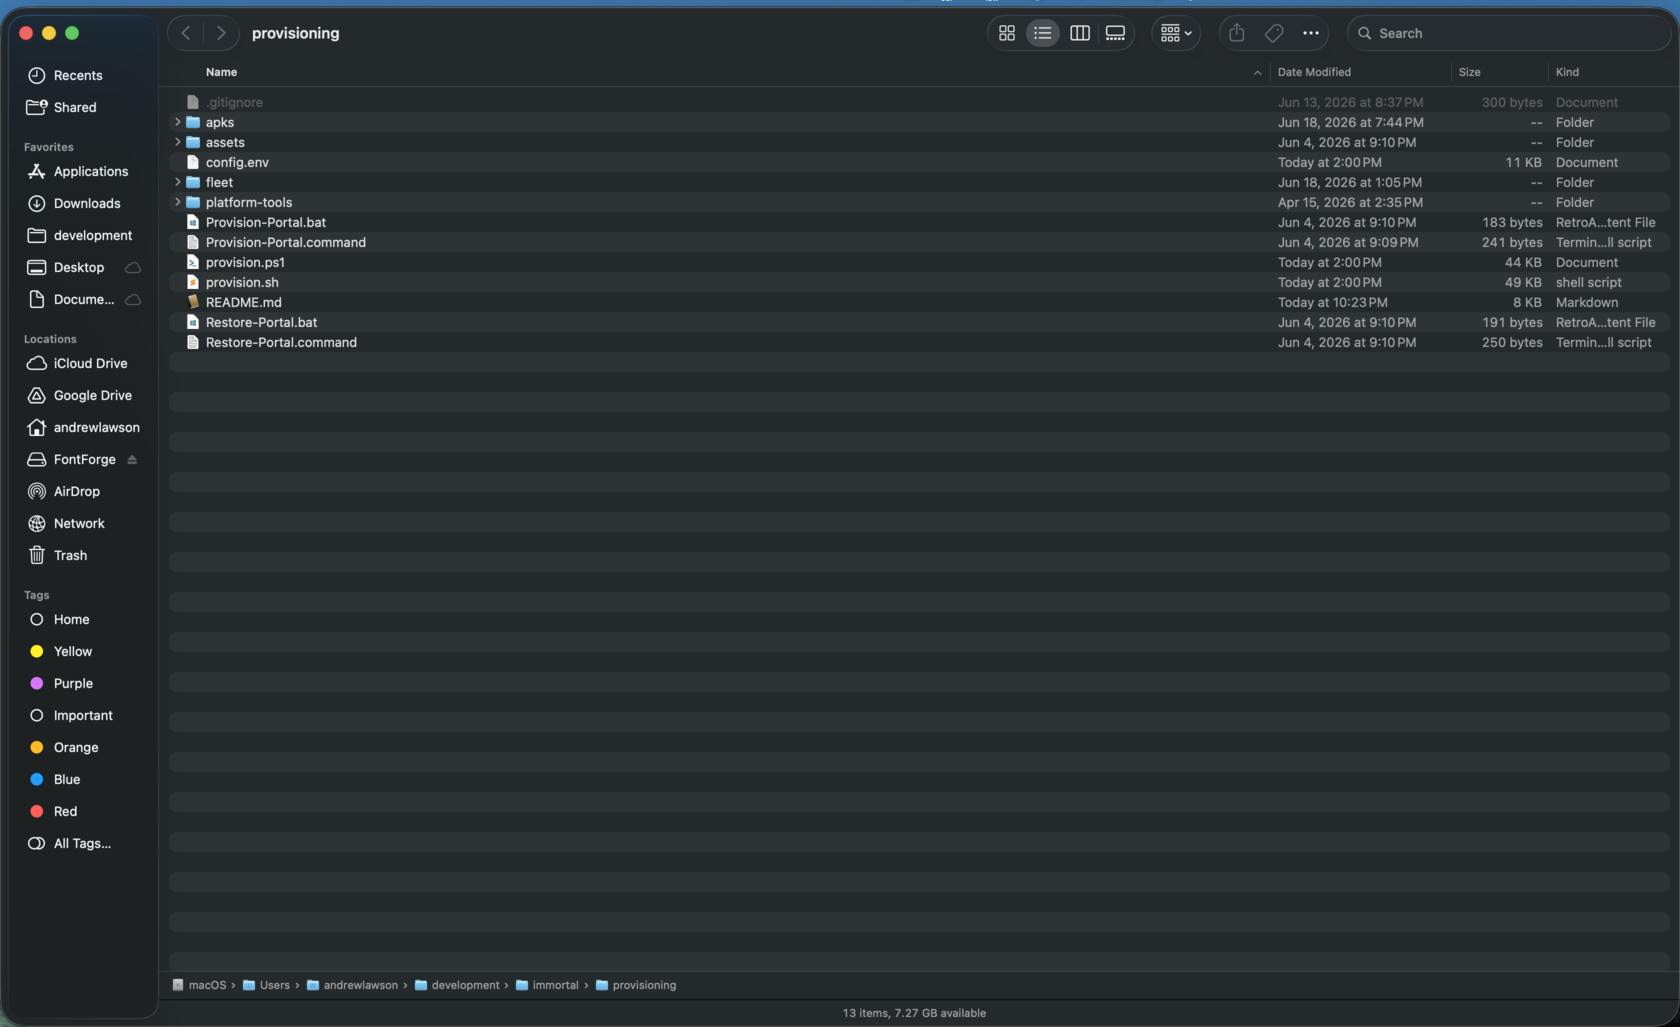
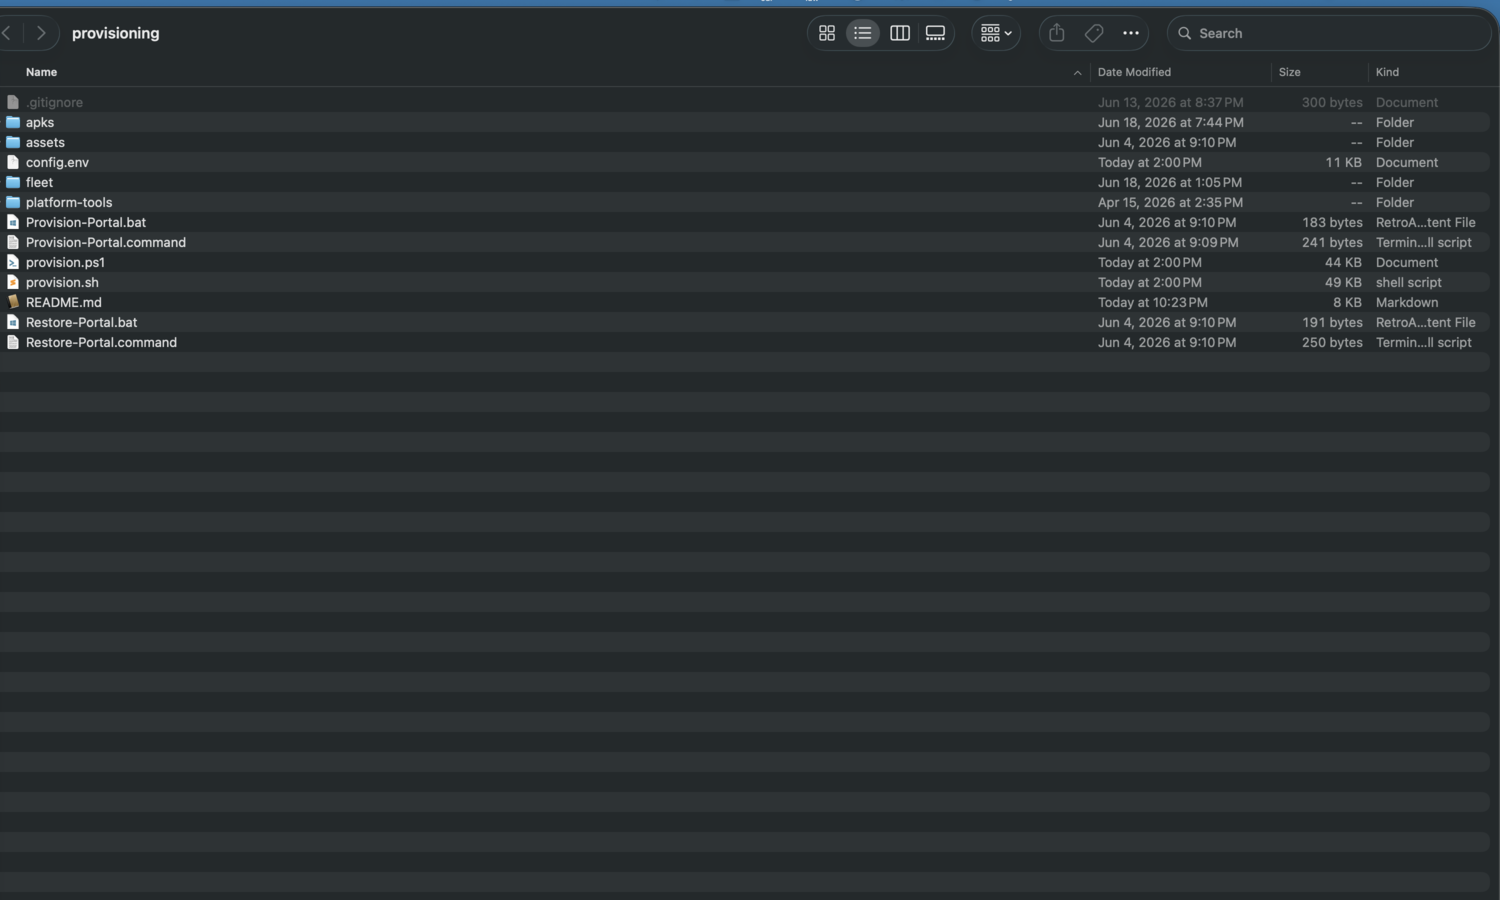
docs: redact maintainer username from provisioning-folder screenshot
The Finder capture exposed a real macOS username in the sidebar and the bottom
path bar (.../Users/<name>/...). Crop to the file-list pane, which removes both
occurrences while keeping the useful content (the Provision/Restore files).

Also fix the screensaver alt text: the shot is the large clock face, not the
flip-clock face.

Claude-Session: https://claude.ai/code/session_01YVWeUBLGQo1owE9vkHCEfn

diff --git a/docs/features/screensaver.md b/docs/features/screensaver.md
@@ -5,7 +5,7 @@ clock/battery/date/weather widgets that doubles as the Portal's screensaver.
 
 Swipe to change photos, tap to exit.
 
-![The photo-frame screensaver with the flip-clock face over a landscape photo](../img/screensaver.png)
+![The photo-frame screensaver showing a large clock over a landscape photo](../img/screensaver.png)
 
 ## Clock faces
 
